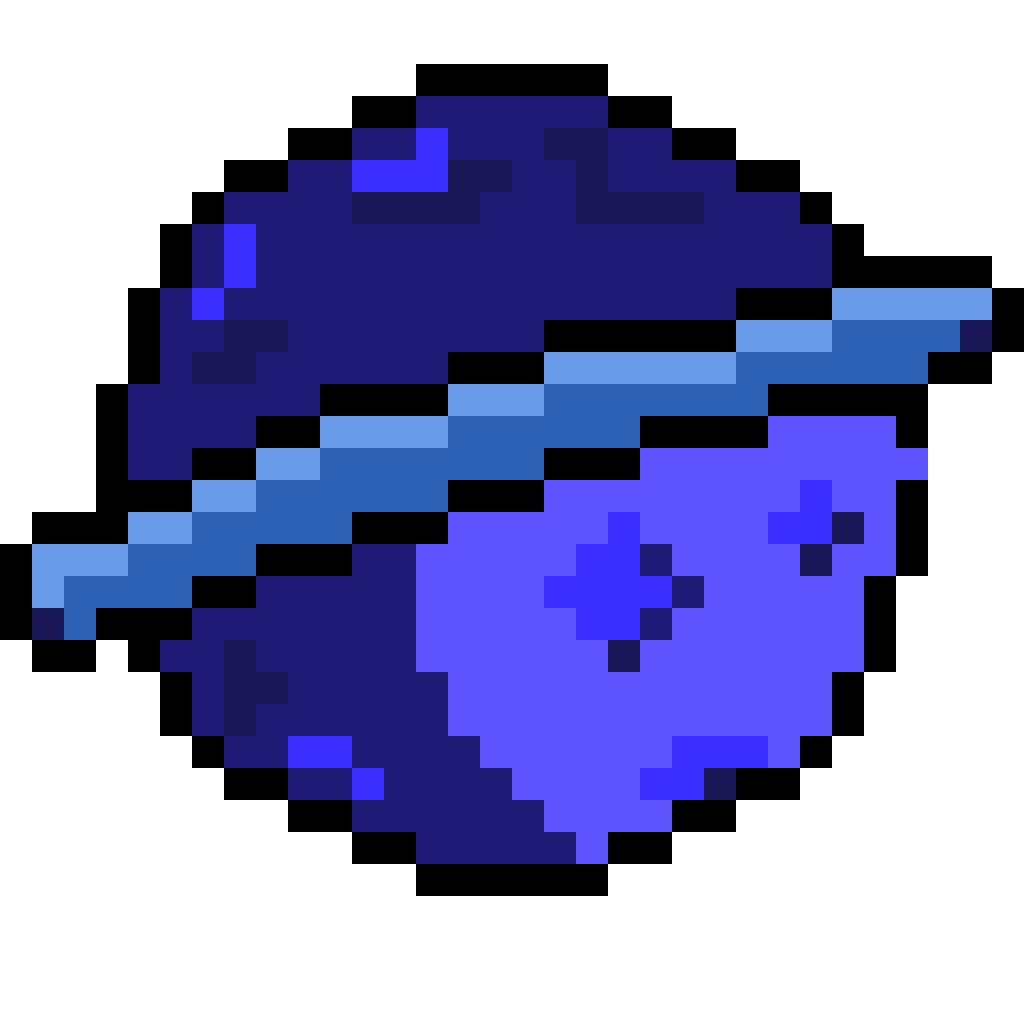
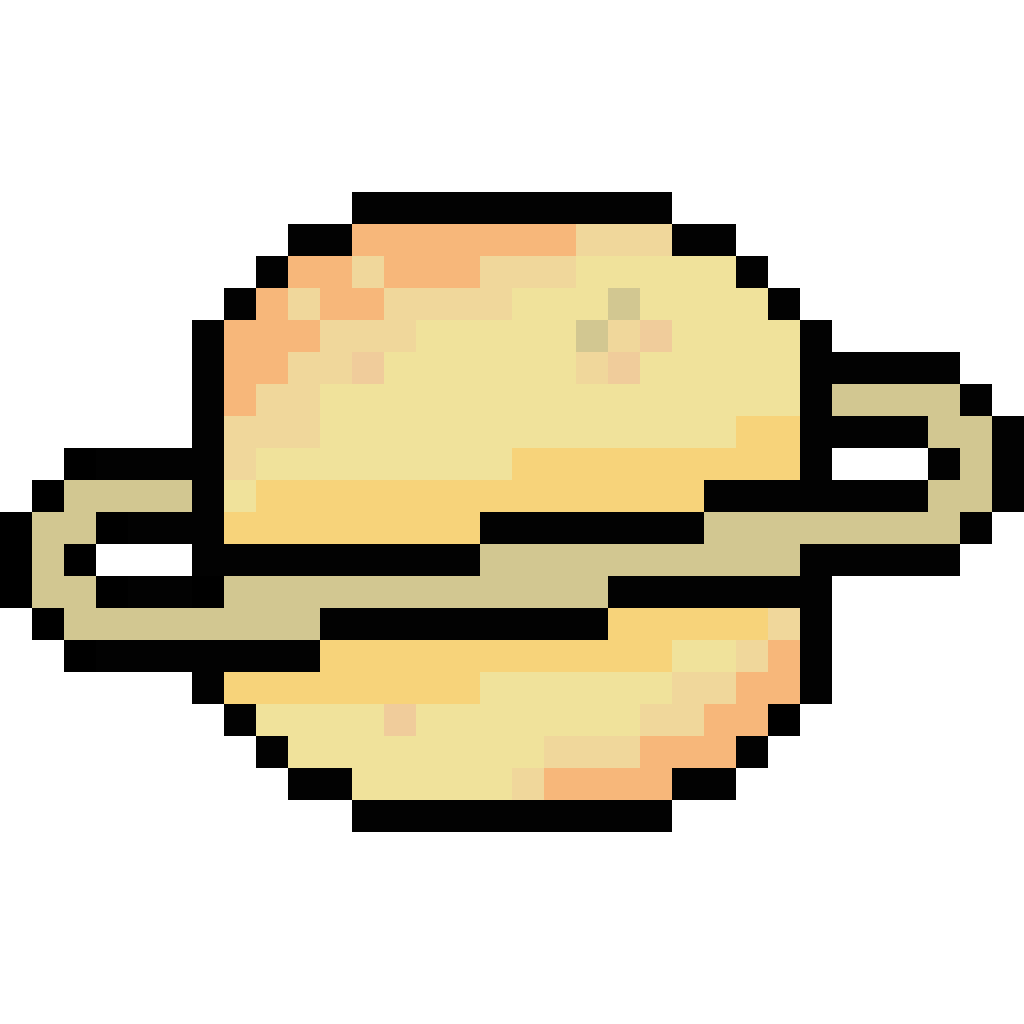
Add files via upload

diff --git a/script.js b/script.js
@@ -121,7 +121,9 @@ function resetStelle(){
     });
     //navicella.style.top = "85%";
      // adatta in base alla risoluzione
-    if(window.innerWidth <= 1280) {
+    if(window.innerWidth <= 768) {
+        navicella.style.top = "85%";   // mobile portrait
+    } else if(window.innerWidth <= 1280) {
         navicella.style.top = "70%";
     } else if(window.innerWidth <= 1440) {
         navicella.style.top = "78%";
@@ -259,7 +261,73 @@ const livelli = [
         pianetaImg: "img/venere.png",
         ufoSpara: false,
         descrizione: "Gli ufo armati ti aspettano!!"
+    },
+    {
+        livelloCorrente: 3,
+        nome:           "Marte",
+        punteggioVincita: 240,
+        velocitàUfoX:   10,
+        velocitàUfoY:   6,
+        ufoSpawn:       70,
+        meteoriteSpawn: [6000, 10000],
+        pianetaImg:     "img/marte.png",
+        ufoSpara:       true,
+        velRazzoUfo:    15,
+        descrizione:    "Il pianeta rosso è pieno di ostacoli!"
+    },
+    {
+        livelloCorrente: 4,
+        nome:           "Giove",
+        punteggioVincita: 290,
+        velocitàUfoX:   11,
+        velocitàUfoY:   8,
+        ufoSpawn:       62,
+        meteoriteSpawn: [5000, 9000],
+        pianetaImg:     "img/giove.png",
+        ufoSpara:       true,
+        velRazzoUfo:    17,
+        descrizione:    "Il gigante del sistema solare! Sopravvivi se puoi."
+    },
+    {
+        livelloCorrente: 5,
+        nome:           "Saturno",
+        punteggioVincita: 350,
+        velocitàUfoX:   13,
+        velocitàUfoY:   9,
+        ufoSpawn:       45,
+        meteoriteSpawn: [4500, 8000],
+        pianetaImg:     "img/saturno.png",
+        ufoSpara:       true,
+        velRazzoUfo:    18,
+        descrizione:    "Gli anelli di Saturno nascondono trappole mortali!"
+    },
+    {
+        livelloCorrente: 6,
+        nome:           "Urano",
+        punteggioVincita: 410,
+        velocitàUfoX:   15,
+        velocitàUfoY:   10,
+        ufoSpawn:       40,
+        meteoriteSpawn: [4000, 7000],
+        pianetaImg:     "img/urano.png",
+        ufoSpara:       true,
+        velRazzoUfo:    20,
+        descrizione:    "Il pianeta ghiacciato ti congelerà i riflessi!"
+    },
+    {
+        livelloCorrente: 7,
+        nome:           "Nettuno",
+        punteggioVincita: 500,
+        velocitàUfoX:   16,
+        velocitàUfoY:   11,
+        ufoSpawn:       35,
+        meteoriteSpawn: [3500, 6000],
+        pianetaImg:     "img/nettuno.png",
+        ufoSpara:       true,
+        velRazzoUfo:    22,
+        descrizione:    "L'ultimo segreto del sistema solare. Nessuno è tornato!"
     }
+
 ]
 //gestiamo il livello corrente
 let livelloCorrente = 0
@@ -270,6 +338,7 @@ meteoriti = [];
 razzi = [];
 
 let pianeta;
+let intervalloPianeta;
 function creoPianeti(){
     const config = livelli[livelloCorrente];
     if(pianeta) pianeta.remove();
@@ -290,8 +359,8 @@ function creoPianeti(){
 function muovoPianeti(pianeta){
     const config = livelli[livelloCorrente];
     let posizione = -150;
-    
-    setInterval(() => {
+    clearInterval(intervalloPianeta);
+    intervalloPianeta = setInterval(() => {
         posizione += 6;
         pianeta.style.top = posizione + "px";
         if(posizione >= 50){
@@ -309,7 +378,23 @@ function transazione(){
     LIVELLO.innerText = "LIVELLO: " + config.livelloCorrente;
     Pianeta.innerText = config.nome;
     didascalia.innerText = config.descrizione;
-    
+    if(pianeta) {
+        clearInterval(intervalloPianeta);
+
+        let posizioneUscita = parseFloat(pianeta.style.top) || 50;
+
+        const intervalloUscita = setInterval(() => {
+            posizioneUscita += 10;
+            pianeta.style.top = posizioneUscita + "px";
+
+            if(posizioneUscita >= window.innerHeight + 150) {
+                clearInterval(intervalloUscita);
+                pianeta.remove();
+                pianeta = null;
+            }
+        }, 50);
+    }
+
     // BUG 7 FIX: uso una funzione nominata per poterla rimuovere dopo l'uso
     function avanzaTransazione(event){
         if(event.key === "c"){
@@ -420,14 +505,20 @@ function startGame() {
     if(livello) livello.innerText = "LIVELLO: " + config.nome;
     if(livelloSfondo) livelloSfondo.innerText = config.nome
     
-    // BUG 5 FIX: rimosse le variabili locali velocitàUfoX e velocitàUfoY inutilizzate
+    //telefono
+    const hudV = document.getElementById("hudVite");
+    const hudP = document.getElementById("hudPunteggio");
+    const hudL = document.getElementById("hudLivello");
+    if(hudV) hudV.innerText = "Vite: " + vite;
+    if(hudP) hudP.innerText = "Pts: " + punteggio;
+    if(hudL) hudL.innerText = config.nome;
+    
     
     posX = (sfondo.offsetWidth / 2) - (navicella.offsetWidth / 2); 
     navicella.style.left = posX + "px"; // imposto la posizione x della navicella in base alla posizione x calcolata, in questo modo la navicella parte al centro dello sfondo
     pYufo = 2;  
     
     //creazione ufo
-    // BUG 1 FIX: uso l'array globale ufi invece di dichiararne uno locale
     ufi = [];
     let soglia = Math.random() * 100;
     let cont = 0;
@@ -485,7 +576,7 @@ function startGame() {
             ufo.y = ufo.y + config.velocitàUfoY;
             ufo.el.style.top = ufo.y + "px";
             
-            if(ufo.y > (sfondo.offsetHeight)) {
+            if(ufo.y > (sfondo.offsetHeight + 100)) {
                 ufo.el.remove();
                 ufi.splice(index, 1);
             }
@@ -540,7 +631,7 @@ function startGame() {
             meteorite.y += meteorite.velYmeteorite; 
             meteorite.el.style.top = meteorite.y + "px";
             
-            if(meteorite.y > sfondo.offsetHeight + (meteorite.el.offsetHeight * 2)) {
+            if(meteorite.y > sfondo.offsetHeight +150 + (meteorite.el.offsetHeight * 2)) {
                 meteorite.el.remove();
                 meteoriti.splice(index, 1);
             }
@@ -580,11 +671,14 @@ function startGame() {
     //movimento razzo e collisione con ufo
     intervalli.push(setInterval(() => {
             if(inPausa) return;
+            let livelloFinito = false;
             razzi.forEach((razzo, index) => {
+                if(livelloFinito) return;
                 let razzoRimosso = false;
                 razzo.y -= razzo.vely; 
                 
                 ufi.forEach((ufo, indexUfo) => {
+                    if(livelloFinito) return;
                     if(razzo.el.offsetLeft > ufo.el.offsetLeft + ufo.el.offsetWidth || razzo.el.offsetLeft + razzo.el.offsetWidth < ufo.el.offsetLeft || razzo.el.offsetTop > ufo.el.offsetTop + ufo.el.offsetHeight || razzo.el.offsetTop + razzo.el.offsetHeight < ufo.el.offsetTop) {
                         // se il razzo non colpisce l'ufo, non succede nulla
                     } else {
@@ -594,7 +688,9 @@ function startGame() {
                         ufi.splice(indexUfo, 1); 
                         punteggio += 10; 
                         Punteggio.innerText = "Punteggio: " + punteggio; 
+                        if(hudP) hudP.innerText = "Pts: " + punteggio; 
                         if(punteggio >= config.punteggioVincita) {
+                            livelloFinito = true;
                             cambioLivello = true;
                             inputAttivo = false;
                             intervalli.forEach(intervallo => clearInterval(intervallo))

diff --git a/stile.css b/stile.css
@@ -677,7 +677,9 @@ body{
     color: rgba(180, 150, 255, 0.9);
     animation: lampeggio 1.5s infinite;
 }
-
+.hudMobile {
+    display: none; /* nascosto su desktop */
+}
 @media (max-width: 768px) and (orientation: portrait) {
 
     .lateraleSinistra, .lateraleDestra, .gameRightSide {
@@ -694,10 +696,8 @@ body{
         width: 100%;
         height: 75vh;
         margin: 0;
-        border-radius: 0;
-        /* bordi curvi solo in basso */
-        border-bottom-left-radius: 20px;
-        border-bottom-right-radius: 20px;
+        overflow: hidden;
+        border-radius: 20px;
         outline: none;
         border: 2px solid rgba(100, 180, 255, 0.9);
         box-shadow: 0 0 10px rgba(100, 180, 255, 0.6),
@@ -709,11 +709,11 @@ body{
         left: 5px;
     }
 
-    #utente { top: 5px; }
+    #utente { top: 10px; }
     #vite { bottom: auto; top: 25px; }
     #punteggio { bottom: auto; top: 45px; }
 
-    #navicella { top: 70%; }
+    #navicella { top: 85%; }
 
     /* area controlli */
     .controlliMobile {
@@ -724,8 +724,8 @@ body{
         border-top: 3px solid rgba(180, 100, 255, 1);
         box-shadow: 0 -4px 20px rgba(180, 100, 255, 0.7),
                     inset 0 2px 15px rgba(180, 100, 255, 0.2);
-        border-top-left-radius: 20px;   /* curvo in alto */
-        border-top-right-radius: 20px;
+        border-radius: 30px;
+        z-index: 10 !important;
     }
 
     .areaControlli {
@@ -735,6 +735,7 @@ body{
         width: 100%;
         height: 100%;
         padding: 10px 30px;
+        z-index: 10 !important;
     }
 
     .btnSinistra, .btnDestra, .btnSparo {
@@ -754,7 +755,7 @@ body{
     .schermata_iniziale {
         width: 85%;
         left: 7.5%;
-        margin-top: 5%;
+        margin-top: 15%;
         padding: 1rem;
     }
 
@@ -776,15 +777,16 @@ body{
 
     /* transizione */
     .transazione {
-        width: 85%;
-        height: 50%;
+        width: 75%;
+        height: 40%;
         margin-top: 15%;
+        
     }
 
     .contenitore {
         font-size: 50%;
         padding: 1rem;
-        gap: 0.5rem;
+        gap: 1rem;
     }
 
     #PIANETA { font-size: 1.2rem; }
@@ -800,7 +802,7 @@ body{
     }
 
     .ricomincia {
-        width: 40%;
+        width: 30%;
         margin-left: 0;
         font-size: 40%;
     }
@@ -819,18 +821,44 @@ body{
 
     /* meteorite */
     .meteorite {
-        width: 70px !important;
-        height: 70px !important;
+        width: 50px !important;
+        height: 50px !important;
+        z-index: 1 !important;
+    }
+    .razzo{
+        width: 25px !important;
+        height: 30px !important;
     }
 
     /* game over e vittoria centrati */
     .perdita, .vittoria {
         font-size: 0.8rem;
-        top: 0;
-        left: 0;
+        top: 30%;
+        left: 20%;
         width: 100%;
         height: 75vh; /* solo nell'area di gioco */
         flex-direction: column;
         gap: 1rem;
+    }
+    .pianeti {
+        width: 60px !important;
+        height: 60px !important;
+        right: 20px !important;
+        top: 25px !important;
+    }
+    .hudMobile {
+        display: flex;
+        position: absolute;
+        top: 8px;
+        left: 8px;
+        right: 8px;
+        z-index: 15;
+        justify-content: space-between;
+        font-family: 'Press Start 2P', cursive;
+        font-size: 0.45rem;
+        color: white;
+        background: rgba(0,0,0,0.4);
+        padding: 6px 10px;
+        border-radius: 8px;
     }
 }

diff --git a/index.html b/index.html
@@ -21,6 +21,12 @@
 
     <div class="contenitoreSfondo">
     <div id="sfondo">
+        <!-- HUD mobile, visibile solo su telefono -->
+        <div class="hudMobile" id="hudMobile">
+            <span id="hudVite">Vite: -</span>
+            <span id="hudPunteggio">Punteggio: -</span>
+            <span id="hudLivello">-</span>
+        </div>
         <div id="navicella">
             <img src="img/navicella2.png" alt="navicella" width="100px">
         </div>